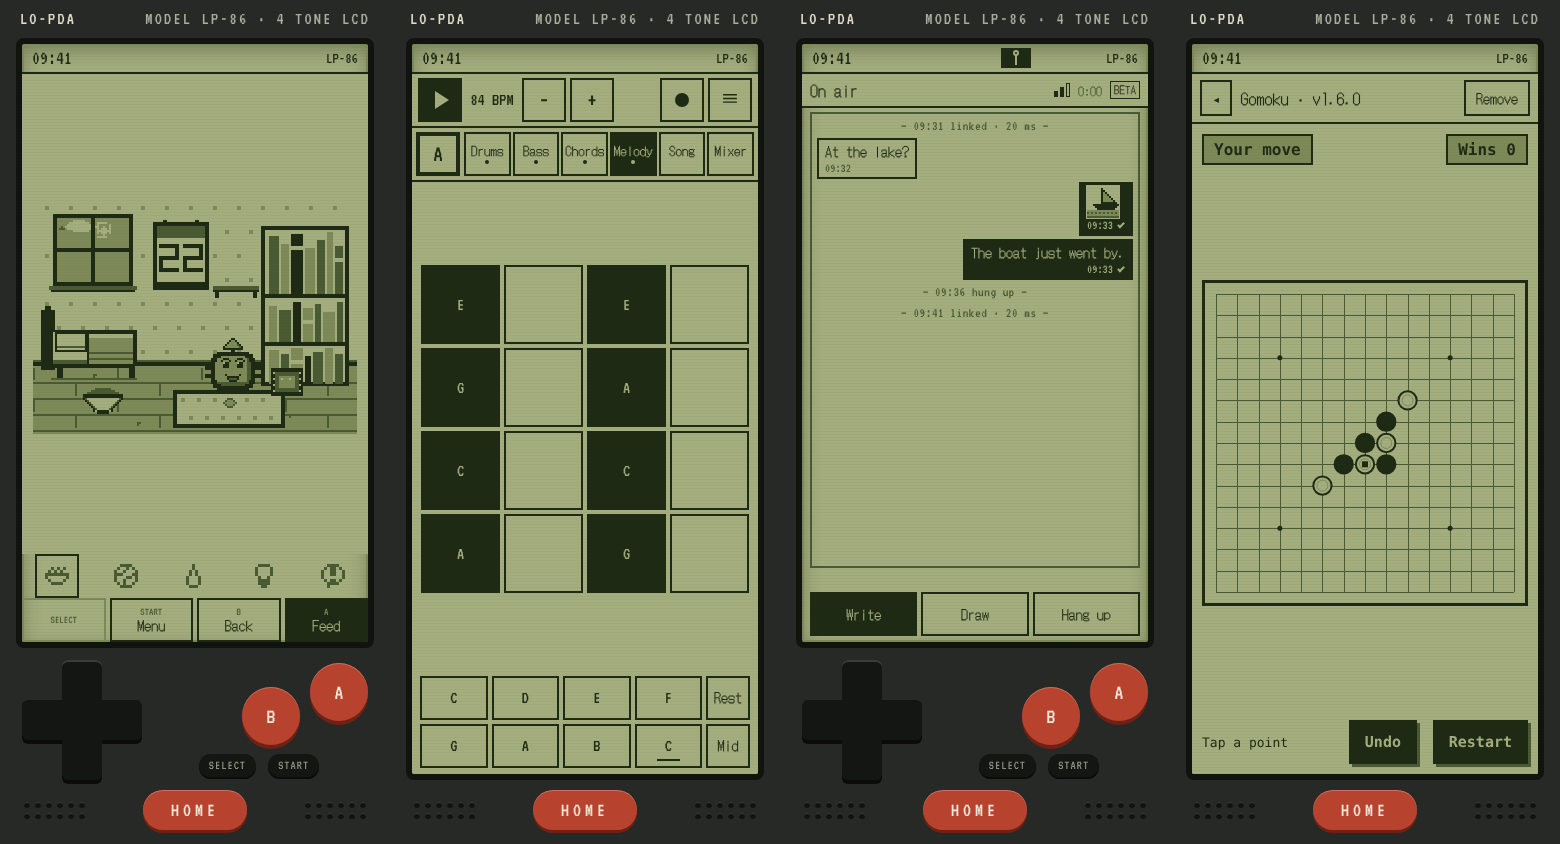
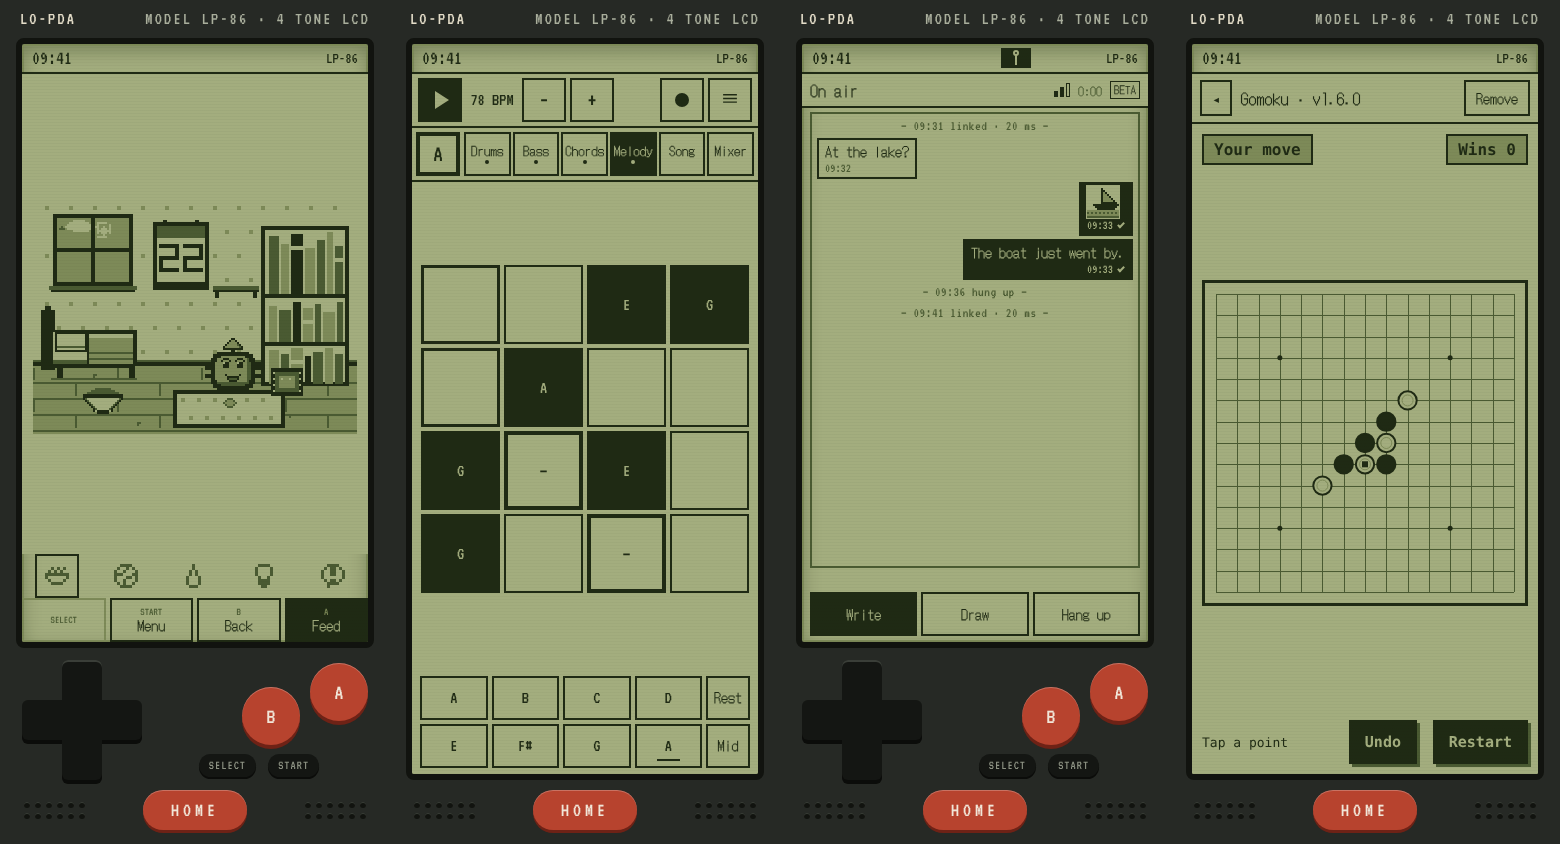
Tape4: keep only 夜色 in the Demo folder; songs open on the song screen (1.0.2) (#159)
* Tape4: keep only 夜色 in the Demo folder (1.0.2)

The pop, Saints and 茉莉花 demo tapes wait for a rewrite after Tape4 2.0.
Copies players already made stay in their library. README's Tape4 shot
now shows 夜色. decisions.md section 53.

Claude-Session: https://claude.ai/code/session_01DFPvMxjnHuC3uGRg4Lb58n

* Tape4: a song picked from the library opens on the song screen

A tape whose chain has more than one slot lands on the song screen; a
one-pattern beat (a new tape) still lands on the drums. decisions.md 53.

Claude-Session: https://claude.ai/code/session_01DFPvMxjnHuC3uGRg4Lb58n

---------

Changed region(s): [[0.2462, 0.3081, 0.4923, 0.5237], [0.3692, 0.6161, 0.4308, 0.7085]]

diff --git a/runtime/apps/studio.js b/runtime/apps/studio.js
@@ -343,10 +343,9 @@ function saveVersion(label){
 /* ---------- folders and the built-in demo folder (12.17) ---------- */
 function templates(){
   return [
-    {id:"night", label:"studio.demo.name", desc:"studio.demo.desc", make:SONGS.demoSong},
-    {id:"pop", label:"studio.pop.name", desc:"studio.pop.desc", make:SONGS.popSong},
-    {id:"saints", label:"studio.saints.name", desc:"studio.saints.desc", make:SONGS.saintsSong},
-    {id:"jasmine", label:"studio.jasmine.name", desc:"studio.jasmine.desc", make:SONGS.jasmineSong}
+    /* only 夜色 ships (owner, 2026-11-18, decisions.md section 53): the pop, Saints and 茉莉花 tapes wait for a rewrite
+       after Tape4 2.0. Their builders stay in studio-song.js; copies a player already made are their own tapes and stay. */
+    {id:"night", label:"studio.demo.name", desc:"studio.demo.desc", make:SONGS.demoSong}
   ];
 }
 function templateById(id){
@@ -420,11 +419,16 @@ function loadProjects(){
     if(T.sheet==="projects"||T.sheet==="folder") renderSheet();
   });
 }
+/* a tape picked from the library opens where its music is: a song (a chain of more than one slot) on the song
+   screen, a one-pattern beat (a new tape) on the drums (owner, 2026-11-18, decisions.md section 53) */
+function landingScreen(song){
+  return song && Array.isArray(song.song) && song.song.length>1 ? "song" : "drums";
+}
 function installSong(song,id,versions){
   stopRepeatAll();
   if(T.playing) stopPlay();
   T.sheet="";
-  screenTo("drums");
+  screenTo(landingScreen(song));
   T.pat=0; T.focus=0; T.slot=0; T.kb=false;
   T.noteSel={bass:-1,melody:-1}; T.noteDeg={bass:0,melody:0}; T.oct={bass:0,melody:0}; T.chordSel=-1; T.chordDeg=0;
   setSong(song);

diff --git a/runtime/sw.js b/runtime/sw.js
@@ -5,7 +5,7 @@
  * so a first start without network can still install them.
  * The cache is named after this worker's scope as well as its version: GitHub Pages PR previews (pr/<n>/runtime/)
  * share Cache Storage with the real site, and each worker only ever deletes its own scope's old caches. */
-var VERSION = "lopda-v1.0.1";
+var VERSION = "lopda-v1.0.2";
 var CACHE = VERSION + " " + self.registration.scope;
 var SHELL = ["./", "index.html", "lopda.css", "strings.js", "platform.js", "lunar.js", "stardict.js", "wordlist.js", "bookparse.js", "textsel.js", "chip.js", "sensors.js", "speech.js", "lenses.js", "finder.js", "negative.js", "exif.js", "geotag.js", "develop.js", "notetext.js", "petsim.js", "petstate.js", "petsouv.js", "petart.js", "petplay.js", "zip.js", "backup.js", "ai.js", "studio-song.js", "studio-synth.js", "studio-tape.js", "studio-edit.js", "studio-styles.js", "studio-tools.js", "studio-theory.js", "studio-critic.js", "studio-prompts.js", "studio-ai.js", "studio-harness.js", "wav.js", "midi.js", "vendor/qrcode-generator/qrcode.js", "qr.js", "appsaves.js", "acoustic.js", "acoustic-link.js", "acoustic-rx.js", "acoustic-session.js", "core.js", "link.js",
   "apps/notes.js", "apps/calendar.js", "apps/dict.js", "apps/reader.js", "apps/camera.js", "apps/darkroom.js", "apps/studio.js", "apps/cart.js", "apps/radio.js", "apps/pet.js", "apps/snap.js", "apps/store.js", "apps/scripts-templates.js", "apps/scripts.js", "apps/settings.js", "boot.js", "../sdk/pad-shim.js",

diff --git a/runtime/core.js b/runtime/core.js
@@ -245,7 +245,7 @@ document.addEventListener("visibilitychange",function(){
 });
 
 /* ---------- sound: tiny square-wave chips through Web Audio (the named sounds themselves are in chip.js) ---------- */
-var RUNTIME_VERSION="1.0.1";   /* keep in step with VERSION in sw.js */
+var RUNTIME_VERSION="1.0.2";   /* keep in step with VERSION in sw.js */
 /* One volume, five steps, 0 is off (decisions.md section 10). It sets the master gain and nothing else does.
    Under the master: `ui` for the runtime's own clicks and the built-ins' prompts, held at a fraction so they stay as
    quiet as they always were (step 2 gives them 0.11, their level before 0.12.0), and `app` for apps, music and the

diff --git a/CLAUDE.md b/CLAUDE.md
@@ -86,7 +86,7 @@ README.md (English, the homepage) README.zh.md (Chinese) LICENSE NOTICE LICENSIN
   physical lenses found by lenses.js; the menu's 地点 switch (off by default, `data/users/local/camera` {rolls, place?}) follows the position only while the viewfinder runs and seals each shot's place as `geo` with the darkroom key, decisions.md section 40; shares its film helpers as `LP.film`, its dither in finder.js), snap (apps/snap.js: the viewfinder an app opens with
   `PAD.camera.snap` over the running app, `LP.snap`; keeps nothing; decisions.md section 28), darkroom (冲洗店: the film box of unloaded rolls,
   negative export and import through negative.js, developing through develop.js (once per roll, `dev` {v, seed, at} in the roll; pictures are
-  never stored, every look and print develops them again), the colour viewer, single / all singles / contact sheet / film strip prints (only the single print, and each picture of all singles, opens a frame's `geo` and writes GPS into its EXIF; 抹掉地点 erases a roll's places); decisions.md sections 19 and 40), studio (四轨机 / Tape4: the four-track tape machine; drum, bass, chord, melody, song and mixer screens, 64 patterns (A-P, then A1-P3; renameable) and a 96-slot chain with a length/duplicate readout, the tape colour and swing, a folder-based tape library with a Demo folder (neo-soul, daylight pop, When the Saints, 茉莉花), a Demo-copies folder and per-row delete that stays in the library, undo and versions, real-time recording (REC, quantised to 16ths), a workspace zip, a five-page guide, WAV export through wav.js, and an AI co-editor over studio-edit.js/studio-ai.js; tapes in `data/users/local/studio/items` with a `folder` field, versions in `.../versions/<id>`, docs/design/studio.md sections 11-12.17), cart (GB), radio (电波台: 连线 / 说明 / 仪表 over `LP.link`; a log of text (≤ 60 characters) and 16 x 16 four-tone pictures,
+  never stored, every look and print develops them again), the colour viewer, single / all singles / contact sheet / film strip prints (only the single print, and each picture of all singles, opens a frame's `geo` and writes GPS into its EXIF; 抹掉地点 erases a roll's places); decisions.md sections 19 and 40), studio (四轨机 / Tape4: the four-track tape machine; drum, bass, chord, melody, song and mixer screens, 64 patterns (A-P, then A1-P3; renameable) and a 96-slot chain with a length/duplicate readout, the tape colour and swing, a folder-based tape library with a Demo folder (only 夜色 / neo-soul since 1.0.2, decisions.md section 53), a Demo-copies folder and per-row delete that stays in the library, undo and versions, real-time recording (REC, quantised to 16ths), a workspace zip, a five-page guide, WAV export through wav.js, and an AI co-editor over studio-edit.js/studio-ai.js; tapes in `data/users/local/studio/items` with a `folder` field, versions in `.../versions/<id>`, docs/design/studio.md sections 11-12.17), cart (GB), radio (电波台: 连线 / 说明 / 仪表 over `LP.link`; a log of text (≤ 60 characters) and 16 x 16 four-tone pictures,
   the last 30 in `data/users/local/radio` {log, txMode?}; the meter shows the four tones' dB and the noise floor, the M2
   known-sequence test and the 发送时关麦 switch (`LP.link.setTxMode`); decisions.md section 46), pet (宠物 / Pet: the built-in pet, petsim.js rules and petart.js art on one hardware screen (a 162 x 120 room at 2 css px, 32 x 32 sprites, five icons and a START menu, two-frame actions); it hatches in ~8 s, is named once at birth (fixed for life), sleeps lying in its bed at night and walks back to the rug in the morning, never dies and lives from boot, silent outside its screen (background catch-up, the day's pick from the read-only summaries, props and 信, the outing and one AI souvenir a day with a silent built-in fallback); souvenirs go on the room's one shelf, not into notes; a souvenir may keep a declarative item state (the seed grows only while on the shelf; the vane / snow globe / moon dial follow weather, season and lunar day) through petstate.js, docs `pet` and `pet/souvenirs/<id>` with `state` / `grownMs` / `plantedAt`, decisions.md sections 37 and 44), store (app store: categories from the manifest's `category` (missing goes to Other), category filters, search over names and descriptions in both languages, permission icons on each entry, a 新 / NEW badge for seven days from the index's `released` (first manifest commit) and 更新 / UPDATED from `updated` when the version changed (both stamped by build-index from git), a freshly installed or updated tile scrolled into view when HOME returns, one confirmation before installing an app that asks for capabilities (decisions.md section 42), single and "update all" installs, preinstalled apps, sandboxed runner, file dialog), scripts (local HTML/JS programs: copy an AI prompt, paste, run in the sandbox; every script has its own storage document), settings (also 备份 / 恢复: the whole
   device as one `lopda-backup-YYYYMMDD.zip` through backup.js, every check before a restore replaces everything, the old data

diff --git a/docs/decisions.md b/docs/decisions.md
@@ -1740,3 +1740,20 @@ EXIF，相册就能把照片放到地图上。
   `sdk/LO-GAME.md` 和第 11 节的错误表，`docs/REVIEW.md` 的审核清单多一项声音舒适度。
 - **没有做的**：不在 runtime 里给方波加低通或自动限幅（会改掉已有 app 和具名音效的音色）；不逐个体检所有商店 app 的声音，
   只修 owner 举的例子，以后按 guideline 审核。
+
+## 53. 四轨机的示例只留《夜色》（1.0.2）
+
+2026-11-18。owner 听了一遍四轨机自带的四首：只有《夜色》（neo-soul）好听，「白日流行」「When the Saints」「茉莉花」都太差。
+自带曲是新用户的第一印象，宁可少放。
+
+- **「示例」文件夹只剩《夜色》**：`studio.js` 的 `templates()` 只列 `night`。另外三首的生成函数（`popSong`、`saintsSong`、
+  `jasmineSong`）和文字留在 `studio-song.js` / `strings.js` 里不动，等 Tape4 2.0 有了新音色再照《夜色》的水准重写（做法 C）。
+- **不删用户的数据**：示例从来不是写进库里的种子，而是只读的模板；只有玩家点「确认」才复制出一盘。已经复制过的三首（未改过的在
+  「示例副本」，改过的在「我的磁带」或自己的文件夹）都是玩家自己的磁带，照旧显示、能听能改，删不删由玩家决定。
+- 首页影片的配乐本来就是《夜色》（`tools/launch-video.mjs` 导出的就是这一盘），不用重录。README 的四轨机截图原来是茉莉花的
+  旋律屏，`tools/readme-shots.mjs` 默认改成《夜色》并重拍。
+- **从磁带库打开一盘磁带，落在它的音乐上**：owner 同一天问「选了歌以后为什么跳到鼓页」。原来打开磁带和点标签走同一条路，固定到鼓页、
+  pattern A（studio.md 12.9），是给空白磁带想的。现在：歌曲串多于一格的（示例曲、自己的歌）落在歌曲页，一眼看到整首、按播放从头放；
+  只有一格的（新磁带的鼓点）还是鼓页，第一步本来就是打鼓。GarageBand、Korg Gadget 打开一首歌也是先看编曲总览。打开四轨机本身、
+  「清空这一盘」不变，仍是鼓页。
+- 合成器、歌曲格式、AI 编辑和其他程序都不变。

diff --git a/docs/design/studio.md b/docs/design/studio.md
@@ -670,6 +670,8 @@ synth -> input -> 低通 -> 干/湿（湿路是 12 ms 延迟，0.45 Hz + 5.3 Hz 
 
 ### 12.17.4 两首公有领域名曲
 
+> 1.0.2 起「示例」文件夹只留《夜色》（decisions.md 第 53 节）；下面两首和「白日流行」等 Tape4 2.0 后重写，生成函数仍在 `studio-song.js`。
+
 - **When the Saints Go Marching In**（英文传统，公有领域）：C 大调、104 BPM、16 个 pattern、64 格；8 小节主歌 + 8 小节
   高八度副歌，再重复成「主歌×2 / 副歌×2 / 主歌×2 / 副歌×2」。
 - **茉莉花**（江苏民歌，公有领域）：C 大调、84 BPM、16 个 pattern、64 格；同一结构，副歌旋律高八度、鼓更满。
